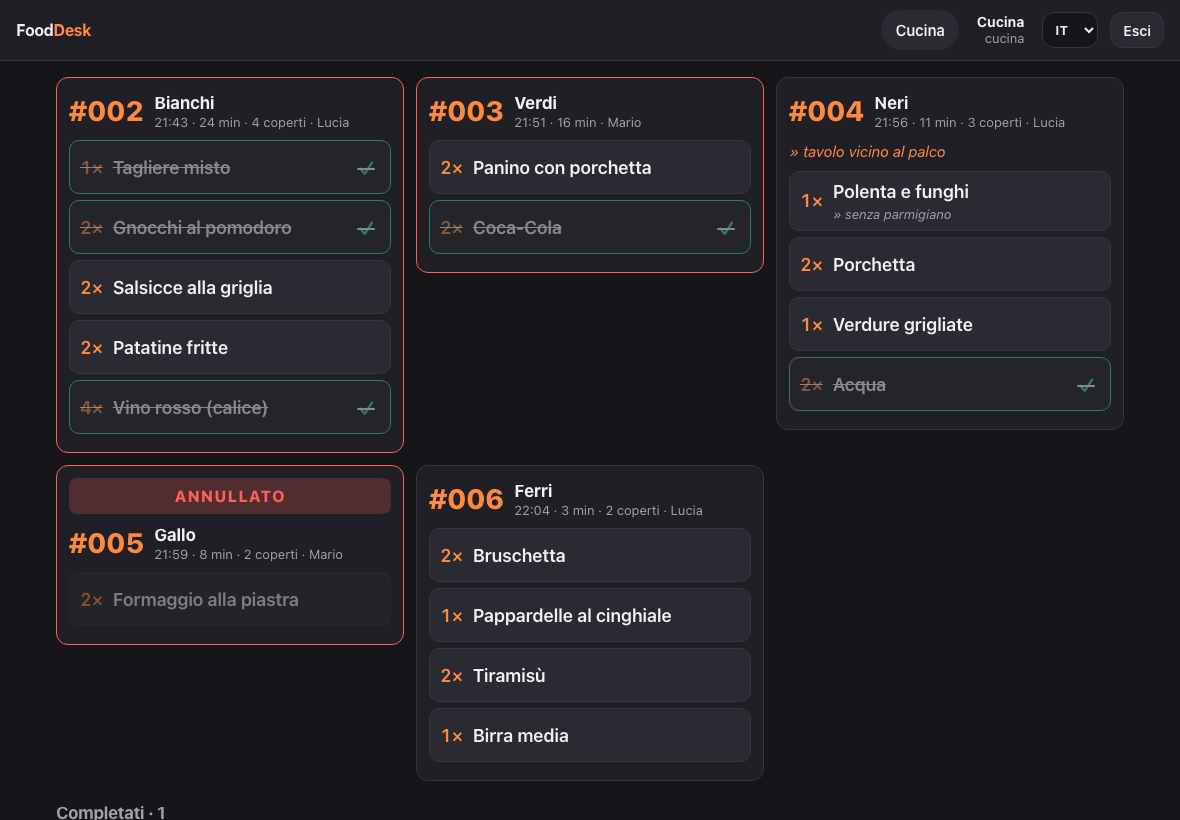
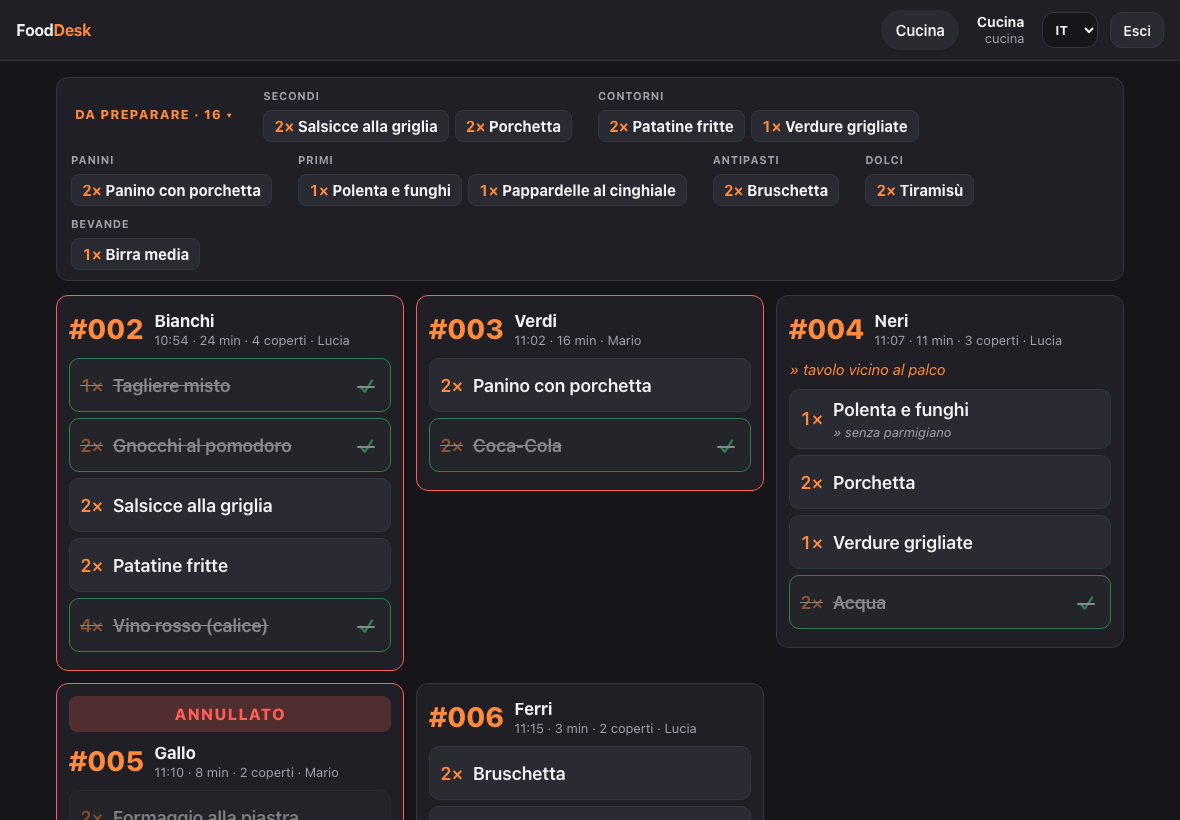
Product TODO feature

diff --git a/web/src/pages/Kitchen.tsx b/web/src/pages/Kitchen.tsx
@@ -7,6 +7,34 @@ function minutesSince(ts: number): number {
   return Math.max(0, Math.floor((Date.now() / 1000 - ts) / 60))
 }
 
+type TodoGroup = { category: string; items: { name: string; qty: number }[] }
+
+/**
+ * The workbench view: everything still to prepare, summed per product and
+ * grouped by category ("10× Bistecca"), so each station knows its numbers
+ * at a glance. Derived purely from the orders already on screen.
+ */
+function buildTodo(orders: KitchenOrder[]): TodoGroup[] {
+  const groups: TodoGroup[] = []
+  for (const o of orders) {
+    if (o.cancelledAt !== null) continue
+    for (const i of o.items) {
+      if (i.doneAt !== null || i.cancelledAt !== null) continue
+      let g = groups.find((x) => x.category === i.category)
+      if (!g) {
+        g = { category: i.category, items: [] }
+        groups.push(g)
+      }
+      const item = g.items.find((x) => x.name === i.name)
+      if (item) item.qty += i.qty
+      else g.items.push({ name: i.name, qty: i.qty })
+    }
+  }
+  // Biggest workload first within each station.
+  for (const g of groups) g.items.sort((a, b) => b.qty - a.qty)
+  return groups
+}
+
 function OrderCard({
   order,
   onToggle,
@@ -70,6 +98,15 @@ export default function Kitchen() {
   const { t } = useI18n()
   const [orders, setOrders] = useState<KitchenOrder[] | null>(null)
   const [error, setError] = useState<string | null>(null)
+  // The workbench bar is collapsible; each tablet remembers its choice.
+  const [todoOpen, setTodoOpen] = useState(() => localStorage.getItem('fd_kds_todo') !== 'closed')
+
+  function toggleTodo() {
+    setTodoOpen((open) => {
+      localStorage.setItem('fd_kds_todo', open ? 'closed' : 'open')
+      return !open
+    })
+  }
 
   async function load() {
     try {
@@ -154,9 +191,34 @@ export default function Kitchen() {
     return active.length > 0 && active.every((i) => i.doneAt !== null)
   })
 
+  const todo = buildTodo(orders)
+
   return (
     <>
       {error && <div className="error">{error}</div>}
+
+      {todo.length > 0 && (
+        <div className="kds-todo">
+          <button className="kds-todo-toggle" onClick={toggleTodo}>
+            {t('kdsTodo')} ·{' '}
+            {todo.reduce((n, g) => n + g.items.reduce((m, i) => m + i.qty, 0), 0)}{' '}
+            {todoOpen ? '▾' : '▸'}
+          </button>
+          {todoOpen &&
+            todo.map((g) => (
+              <div className="kds-todo-group" key={g.category}>
+                <div className="kds-todo-cat">{g.category}</div>
+                <div className="kds-todo-items">
+                  {g.items.map((i) => (
+                    <span className="kds-todo-item" key={i.name}>
+                      <span className="kds-todo-qty">{i.qty}×</span> {i.name}
+                    </span>
+                  ))}
+                </div>
+              </div>
+            ))}
+        </div>
+      )}
 
       {open.length === 0 ? (
         <div className="empty">{t('kdsNoOrders')}</div>

diff --git a/web/src/i18n.tsx b/web/src/i18n.tsx
@@ -203,6 +203,7 @@ const en = {
   kdsNoOrders: 'No orders waiting.',
   kdsCompleted: 'Completed',
   kdsErrUpdate: 'Could not update the item.',
+  kdsTodo: 'To prepare',
   readyBadge: 'ready',
   coverChargeAmount: 'Cover charge (per person)',
   paperSize: 'Paper size',
@@ -410,6 +411,7 @@ const it: typeof en = {
   kdsNoOrders: 'Nessun ordine in attesa.',
   kdsCompleted: 'Completati',
   kdsErrUpdate: 'Impossibile aggiornare il piatto.',
+  kdsTodo: 'Da preparare',
   readyBadge: 'pronto',
   coverChargeAmount: 'Coperto (a persona)',
   paperSize: 'Formato carta',
@@ -616,6 +618,7 @@ const es: typeof en = {
   kdsNoOrders: 'No hay pedidos en espera.',
   kdsCompleted: 'Completados',
   kdsErrUpdate: 'No se pudo actualizar el plato.',
+  kdsTodo: 'Por preparar',
   readyBadge: 'listo',
   coverChargeAmount: 'Cubierto (por persona)',
   paperSize: 'Tamaño de papel',
@@ -822,6 +825,7 @@ const fr: typeof en = {
   kdsNoOrders: 'Aucune commande en attente.',
   kdsCompleted: 'Terminées',
   kdsErrUpdate: 'Impossible de mettre à jour le plat.',
+  kdsTodo: 'À préparer',
   readyBadge: 'prête',
   coverChargeAmount: 'Couvert (par personne)',
   paperSize: 'Format de papier',
@@ -1028,6 +1032,7 @@ const pt: typeof en = {
   kdsNoOrders: 'Sem pedidos em espera.',
   kdsCompleted: 'Concluídos',
   kdsErrUpdate: 'Não foi possível atualizar o prato.',
+  kdsTodo: 'Por preparar',
   readyBadge: 'pronto',
   coverChargeAmount: 'Couvert (por pessoa)',
   paperSize: 'Tamanho do papel',

diff --git a/web/src/styles.css b/web/src/styles.css
@@ -691,6 +691,67 @@ tr.cancelled td .badge {
 
 /* ---------- kitchen display (tablet) ---------- */
 
+/* "To prepare" workbench bar: per-product totals grouped by category,
+   collapsible to just the label + total count. */
+.kds-todo {
+  display: flex;
+  flex-wrap: wrap;
+  align-items: flex-start;
+  gap: 10px 26px;
+  background: var(--surface);
+  border: 1px solid var(--border);
+  border-radius: var(--radius);
+  padding: 10px 14px;
+  margin-bottom: 14px;
+}
+
+.kds-todo-toggle {
+  align-self: center;
+  min-height: 36px;
+  padding: 0 4px;
+  border: 0;
+  background: none;
+  font-size: 13px;
+  font-weight: 800;
+  letter-spacing: 0.08em;
+  text-transform: uppercase;
+  color: var(--accent);
+  white-space: nowrap;
+  cursor: pointer;
+  touch-action: manipulation;
+  -webkit-tap-highlight-color: transparent;
+}
+
+.kds-todo-cat {
+  font-size: 11px;
+  font-weight: 700;
+  letter-spacing: 0.06em;
+  text-transform: uppercase;
+  color: var(--text-dim);
+  margin-bottom: 5px;
+}
+
+.kds-todo-items {
+  display: flex;
+  flex-wrap: wrap;
+  gap: 6px;
+}
+
+.kds-todo-item {
+  background: var(--surface-2);
+  border: 1px solid var(--border);
+  border-radius: 8px;
+  padding: 4px 10px;
+  font-size: 15px;
+  font-weight: 700;
+  white-space: nowrap;
+}
+
+.kds-todo-qty {
+  color: var(--accent);
+  font-variant-numeric: tabular-nums;
+}
+
 .kds-grid {
   display: grid;
   grid-template-columns: repeat(auto-fill, minmax(300px, 1fr));

diff --git a/e2e/smoke.spec.ts b/e2e/smoke.spec.ts
@@ -48,9 +48,19 @@ test('login → menu → order → kitchen display', async ({ page }) => {
   // ---- work it on the kitchen display ----
   await page.getByRole('link', { name: 'Kitchen' }).click()
   await expect(page.getByText('#001')).toBeVisible()
+
+  // The workbench summary counts the pending beer, collapses and re-expands.
+  await expect(page.getByRole('button', { name: /To prepare · 1/ })).toBeVisible()
+  await expect(page.locator('.kds-todo-item')).toHaveText(/1×\s*Beer/)
+  await page.getByRole('button', { name: /To prepare/ }).click()
+  await expect(page.locator('.kds-todo-item')).toHaveCount(0)
+  await page.getByRole('button', { name: /To prepare/ }).click()
+  await expect(page.locator('.kds-todo-item')).toHaveCount(1)
+
   const item = page.getByRole('button', { name: /1×\s*Beer/ })
   await item.click()
-  // Last item done → the order moves to the Completed section.
+  // Last item done → nothing left to prepare, order moves to Completed.
+  await expect(page.locator('.kds-todo')).toHaveCount(0)
   await expect(page.getByText(/Completed · 1/)).toBeVisible()
 
   // ---- and the waiters' list now flags it ready ----
